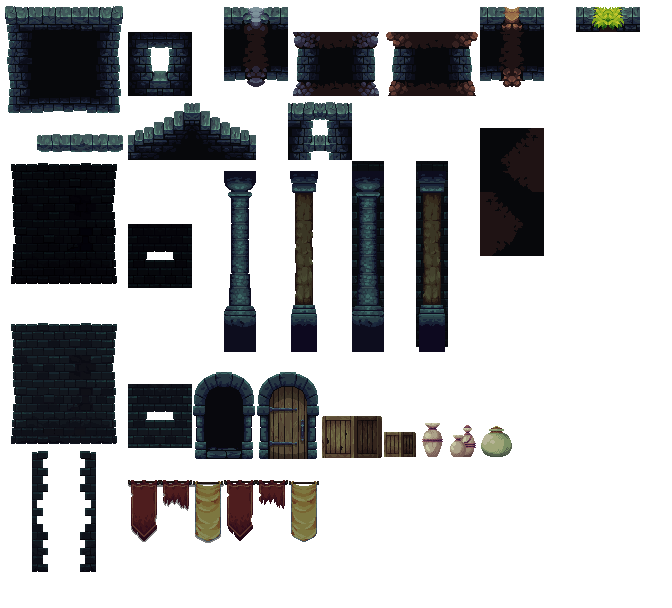
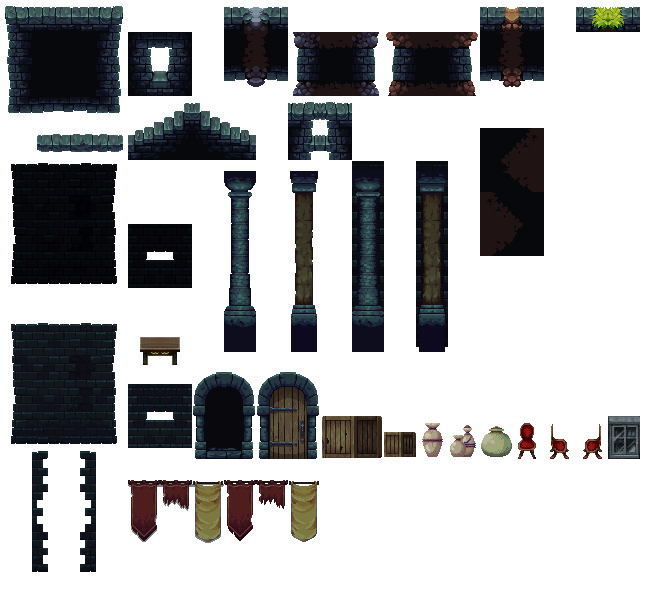
added arts and changed map and changed dialogsystem

Changed region(s): [[0.75, 0.6562, 0.9688, 0.7812], [0.1875, 0.5312, 0.2812, 0.5938]]

diff --git a/src/dialogsystem2/MyDialogManager2.js b/src/dialogsystem2/MyDialogManager2.js
@@ -61,10 +61,20 @@ export default class DialogManagerPlugin2 extends Phaser.Plugins.ScenePlugin {
         for (var itemTalkVariant in NPCTalkVariants) {
             var dialogDivStatement3 = document.createElement('div');
             dialogDivStatement3.style.width = "100%";
+            dialogDivStatement3.style.cursor = "pointer";
             dialogDivStatement3.style.marginBottom = "0.5em";
             dialogDivStatement3.textContent =" - "+NPCTalkVariants[itemTalkVariant];
             this.dialogDiv.appendChild(dialogDivStatement3);
         }
+
+        var dialogDivInstructions = document.createElement('div');
+        dialogDivInstructions.style.position = "absolute";
+        dialogDivInstructions.style.left = "0";
+        dialogDivInstructions.style.right = "0";
+        dialogDivInstructions.style.bottom = "0";
+        dialogDivInstructions.style.textAlign = "right";
+        dialogDivInstructions.textContent = "`E` to close";
+        this.dialogDiv.appendChild(dialogDivInstructions);
         this.wasDialogOpened = true;
         
         

diff --git a/src/scenes/Game.js b/src/scenes/Game.js
@@ -65,6 +65,10 @@ export default class Game extends Phaser.Scene {
             "stairs",
             this.tileSet
         );
+        this.frontdecorLayer = this.tileMap.createLayer(
+            "frontdecor",
+            this.tileSet
+        );
         /*
         this.platformLayer.setCollisionByProperty({
             collide: true
